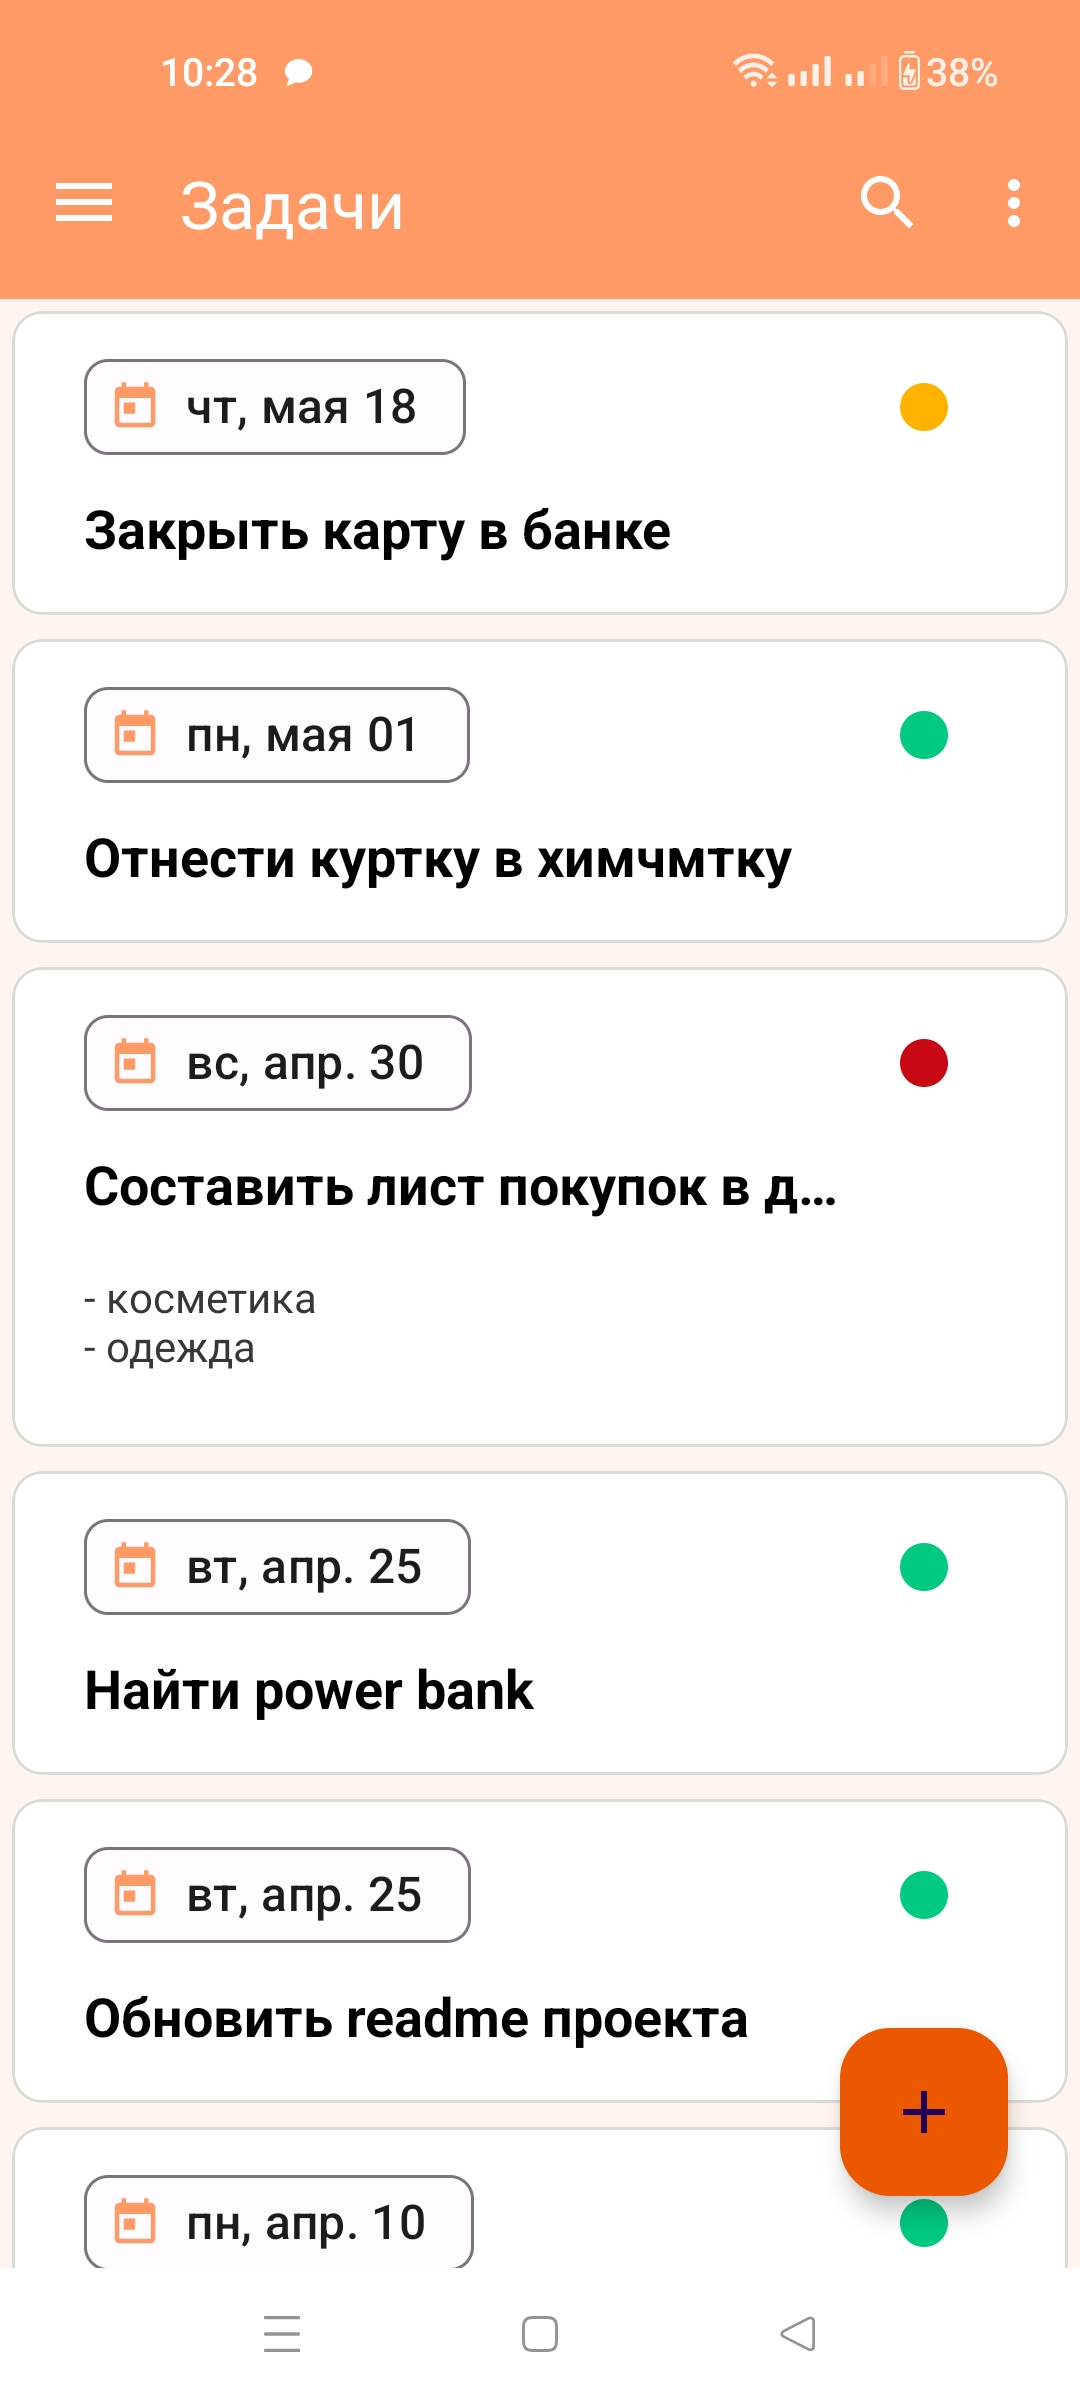
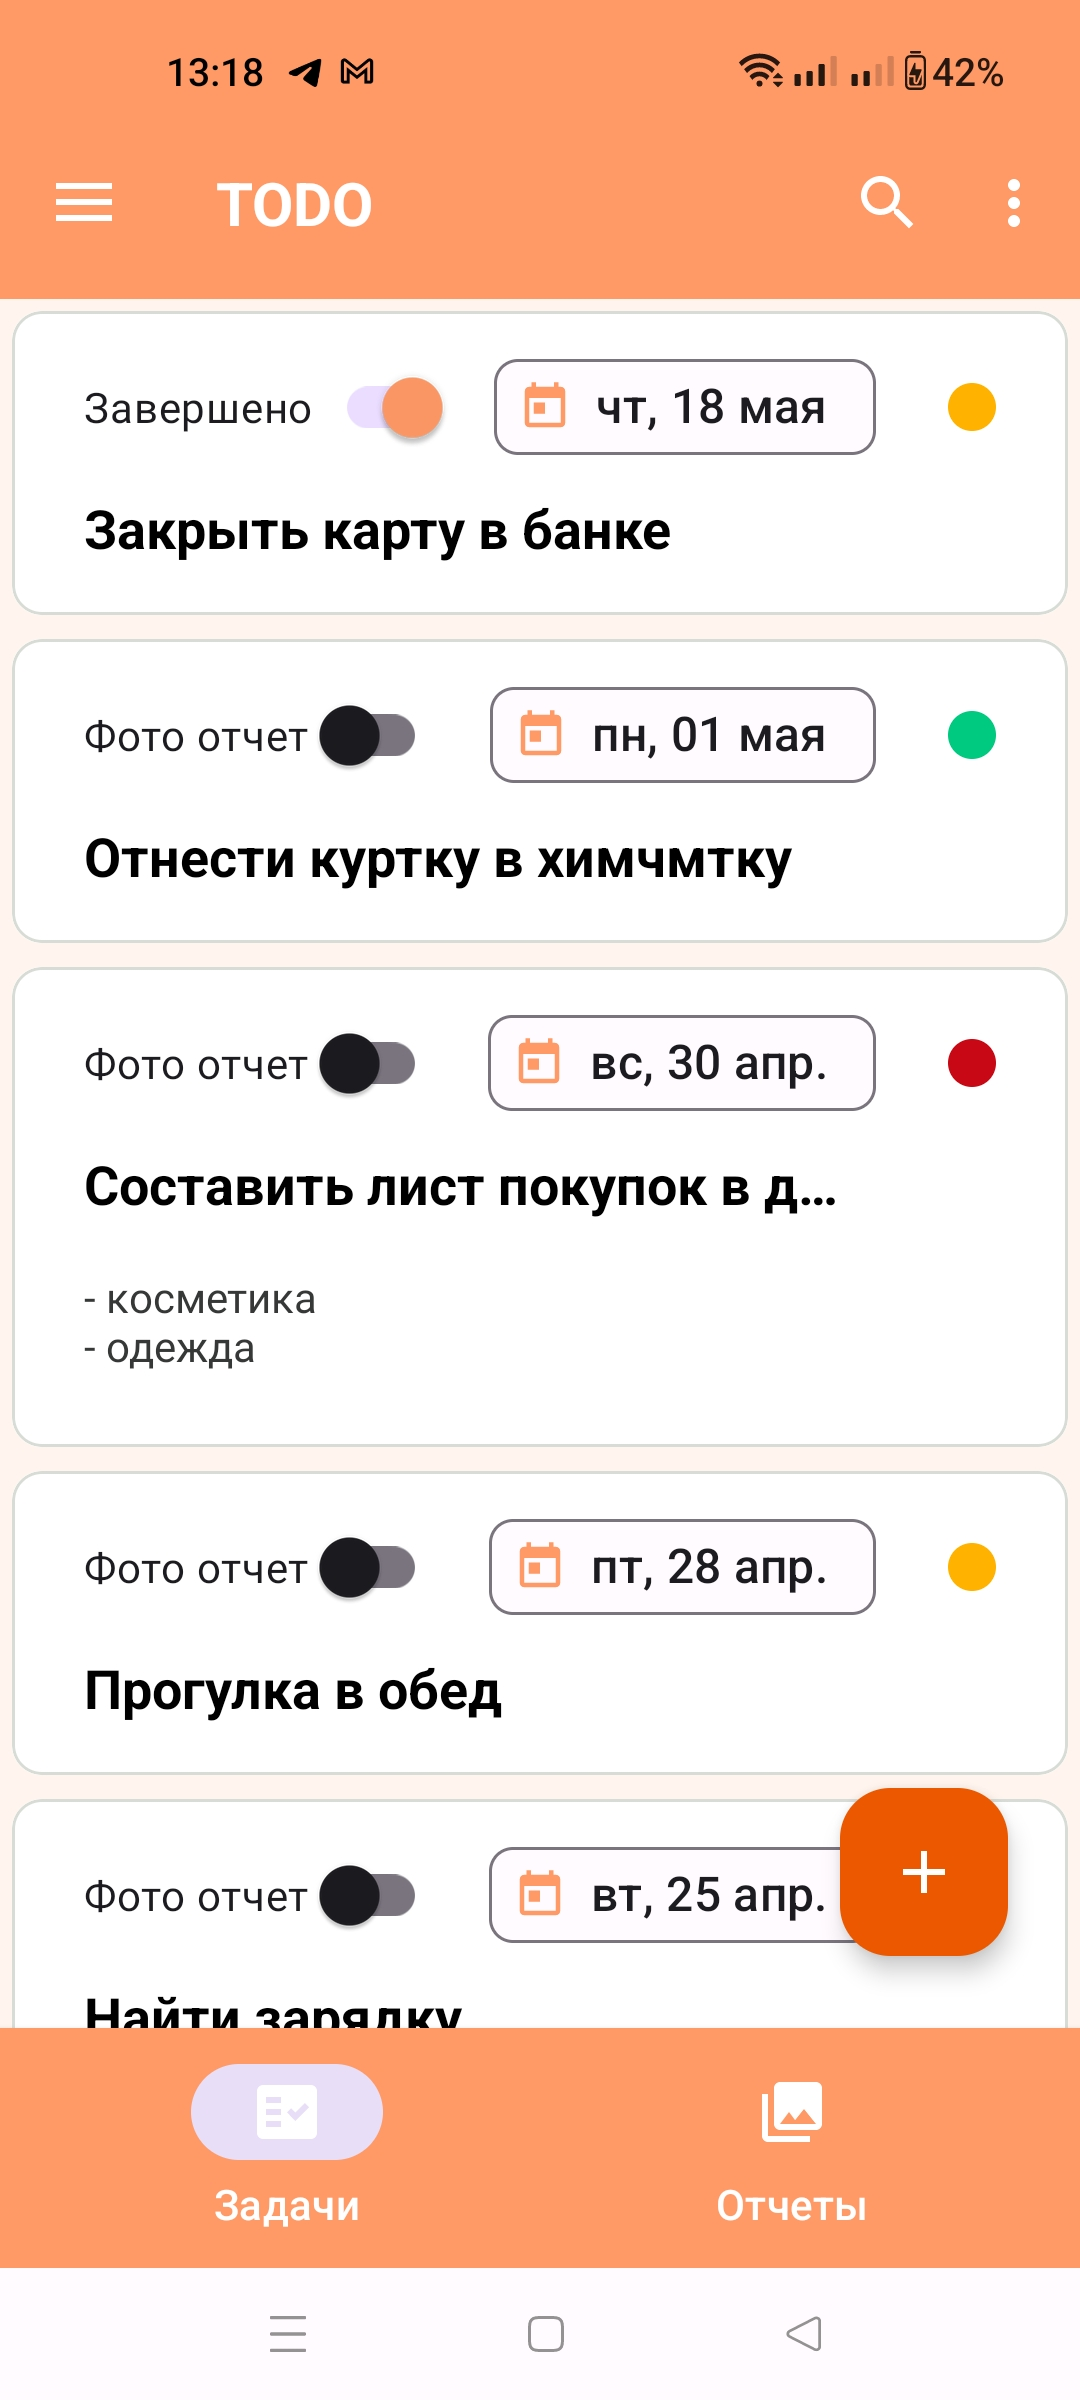
update README

diff --git a/README.md b/README.md
@@ -3,9 +3,9 @@ Android проект TODOApp для создания заметок
 
 # Todo App
 
-Todo App - это приложение, которое позволяет пользователям создавать список задач, которые нужно выполнить. 
+Todo App - это приложение, которое позволяет пользователям создавать список задач, которые нужно выполнить.
 Приложение имеет архитектуру MVVM. UI представлен через Views и ViewGroups с использованием view и data binding, UI-state представлен в ViewModel через Kotlin Flows.
-В качестве DI-фреймворка используется Dagger2. Для навигации используется Navigation Component. 
+В качестве DI-фреймворка используется Dagger2. Для навигации используется Navigation Component.
 Уведомления пользователя о текущих задачах реализовано через WorkManager.
 
 ## Основные экраны приложения
@@ -14,7 +14,9 @@ TodoApp включает в себя следующие экраны:
 
 ### Главный экран
 
-Главный экран содержит список задач пользователя, представленный с помощью RecyclerView с использованием DiffUtil и ShimmerLayout для отображения загрузки данных из персистентого хранилища (БД Room).
+Главный экран содержит BottomNavigation на список задач пользователя либо список фото отчетов.
+
+Cписок задач пользователя представлен с помощью RecyclerView с использованием DiffUtil и ShimmerLayout для отображения загрузки данных из персистентого хранилища (БД Room).
 
 <img src="img/loading_shimmer.jpg" width="300" height="600">
 <img src="img/tasks_list.jpg" width="300" height="600">
@@ -36,9 +38,13 @@ TodoApp включает в себя следующие экраны:
 ### Экран редактирования профиля пользователя
 
 Экран редактирования профиля пользователя позволяет отредактировать общую информацию о текущем авторизованном пользователе (выбрать фото, ввести email, имя).
-Загрузка фото происходит с помощью Glide. 
+Загрузка фото происходит с помощью Glide.
 Информация кратко дублируется в Drawer
 
 <img src="img/user_drawer.jpg" width="300" height="600">
- 
 
+### Экран фото отчетов для завершенных задач
+
+Содержит список загруженных в Internal Storage фото
+
+<img src="img/photo_report.jpg" width="300" height="600">
